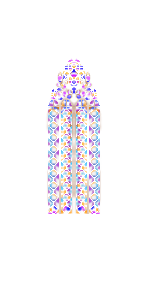
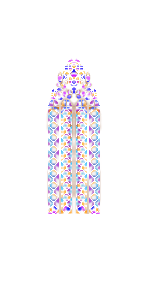
suicidio

Changed region(s): [[0.3243, 0.1849, 0.6757, 0.7397]]

diff --git a/app/sweet/entity.py b/app/sweet/entity.py
@@ -23,6 +23,17 @@ class Sprite:
     unit: int
     overhead: list
 
+@dataclass
+class Sprite3D:
+    pos: tuple
+    scale: tuple
+    rotation: tuple
+    uv: tuple
+    tex_id: int
+    program: bool
+    unit: int
+    overhead: list
+
 class EntityTools:
     ShaderHandler.add_shader_file("def", layout = {
         "vao": [("iPos", 2),
@@ -88,6 +99,25 @@ class EntityTools:
         overhead = [*color, alpha]
         overhead.extend(overhead_data)
         sprite = Sprite(pos, scale, cls._z, angle, image.uv.uv, image.get_tex_id(), static, program, unit, overhead)
+        cls._z += 1
+        ShaderHandler.render_add(sprite)
+
+    @classmethod
+    def draw_image_3d(cls,
+                   image: Imaging | Video,
+                   pos: tuple,
+                   scale: tuple,
+                   angle: tuple,
+                   color: tuple=(255, 255, 255),
+                   alpha: float=1,
+                   program: str=None,
+                   unit=GL_TEXTURE0,
+                   overhead_data=[]) -> None:
+
+        color = (color[0] / 255, color[1] / 255, color[2] / 255)
+        overhead = [*color, alpha]
+        overhead.extend(overhead_data)
+        sprite = Sprite3D(pos, scale, cls._z, angle, image.uv.uv, image.get_tex_id(), static, program, unit, overhead)
         cls._z += 1
         ShaderHandler.render_add(sprite)
 

diff --git a/app/main.py b/app/main.py
@@ -184,7 +184,7 @@ class Background(Entity):
 
         for i in range(-10, 10):
             ground_pos = parallax(Vec(*self.ground_size), Vec(self.ground_size[0] * i, 150 + self.ground_size[1]), 0)
-            EntityTools.draw_image(self.ground, Vec(0, ground_pos.y).unp(), (self.ground_size[0], self.ground_size[1]), program="floor", overhead_data=[sw.looping.GameLoop.view_width, sw.looping.GameLoop.view_height, i, .86, 0, 1, 3.5, 1, 2.3, 0, 0])
+            EntityTools.draw_image(self.ground, Vec(0, ground_pos.y).unp(), (self.ground_size[0], self.ground_size[1]), program="floor", overhead_data=[sw.looping.GameLoop.view_width, sw.looping.GameLoop.view_height, self.ground_size[0] / cam_factor * i / sw.looping.GameLoop.view_width, .86, 0, 1, 3.5, 1, 2.3, 0, 0])
 
         for i in range(-10, 10):
             back_bg_pos = parallax(Vec(*self.back_bg_size), Vec(self.back_bg_size[0] * i, 150), .333 * 1.36)
@@ -207,7 +207,7 @@ class Foreground(Entity):
         self.vignette_size = (self.vignette.get_width(), self.vignette.get_height())
         self.front_pillar = Texture.get_texture("frontline")
         self.pillar_size = (self.front_pillar.get_width() * 2, self.front_pillar.get_height() * 2)
-        self.vignette_alpha = 0.85
+        self.vignette_alpha = 0.6
 
     def draw(self):
         camera_pos = Vec(*main_cam.get_pos())

diff --git a/app/sweet/graphics/shaders.py b/app/sweet/graphics/shaders.py
@@ -787,8 +787,7 @@ class ShaderHandler:
 
         for sprite in cls._render_list:
             same_program = True
-            # if sprite.program == None: sprite.program = "def"
-            if not sprite.program == None and not sprite.program == last_program:
+            if (not sprite.program == None and not sprite.program == last_program) or (sprite.program == None and sprite.program != "def"):
                 same_program = False
 
             same_batch = sprite.tex_id == last_id and sprite.unit == last_unit and same_program